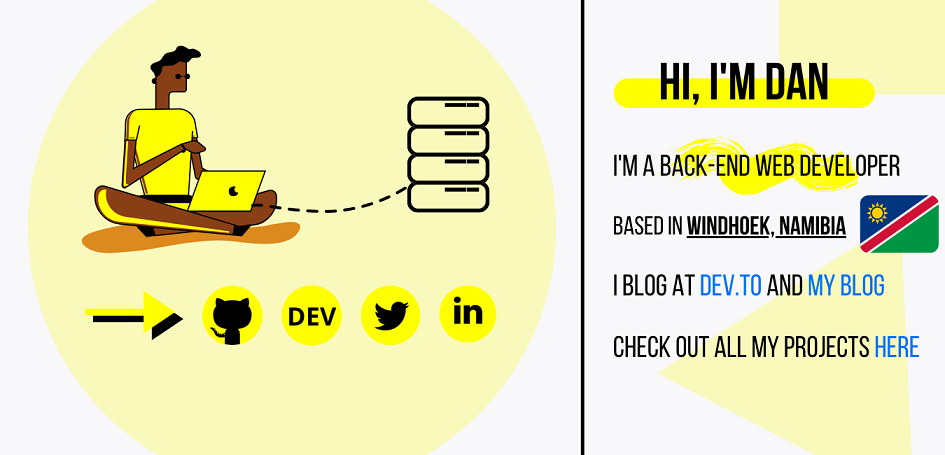
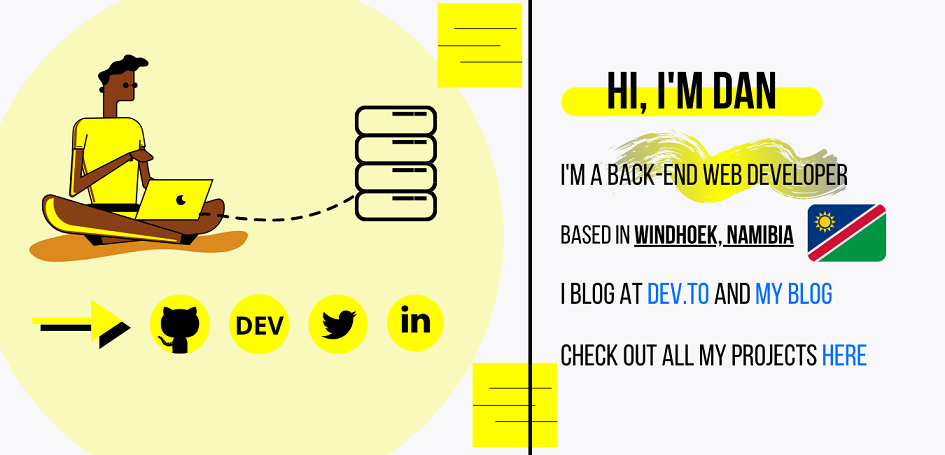
UI design change for mobile friendliness

diff --git a/index.html b/index.html
@@ -7,13 +7,13 @@ title: Dan C. Ntwari | Back-end Web Developer
 <img src="assets/images/premier1-80.png" alt="Home page design" usemap="#workmap">
 
 <map name="workmap">
-  <area shape="circle" coords="267, 361, 33" alt="github" href="https://github.com/otherdcn" target="_blank">
-  <area shape="circle" coords="358, 361, 33" alt="dev" href="https://dev.to/otherdcn" target="_blank">
-  <area shape="circle" coords="448, 361, 33" alt="twitter" href="https://twitter.com/OtherDCN" target="_blank">
-  <area shape="circle" coords="537, 361,33" alt="linkedin" href="https://www.linkedin.com/in/dan-c-ntwari/" target="_blank">
-  <area shape="rect" coords="800,313,870,336" alt="dev" href="https://dev.to/otherdcn" target="_blank">
-  <area shape="rect" coords="923, 313, 1011, 336" alt="blog" href="https://www.dancntwari.com/blog.html">
-  <area shape="rect" coords="1000, 383, 1050, 405" alt="projects" href="https://www.dancntwari.com/project.html">
+  <area shape="circle" coords="206, 373, 35" alt="github" href="https://github.com/otherdcn" target="_blank">
+  <area shape="circle" coords="298, 373, 35" alt="dev" href="https://dev.to/otherdcn" target="_blank">
+  <area shape="circle" coords="386, 373, 35" alt="twitter" href="https://twitter.com/OtherDCN" target="_blank">
+  <area shape="circle" coords="473, 373,35" alt="linkedin" href="https://www.linkedin.com/in/dan-c-ntwari/" target="_blank">
+  <area shape="rect" coords="740, 322, 810, 347" alt="dev" href="https://dev.to/otherdcn" target="_blank">
+  <area shape="rect" coords="863, 322, 952, 347" alt="blog" href="/blog.html">
+  <area shape="rect" coords="940, 392, 992, 418" alt="projects" href="/project.html">
 </map>
 </section>
 
